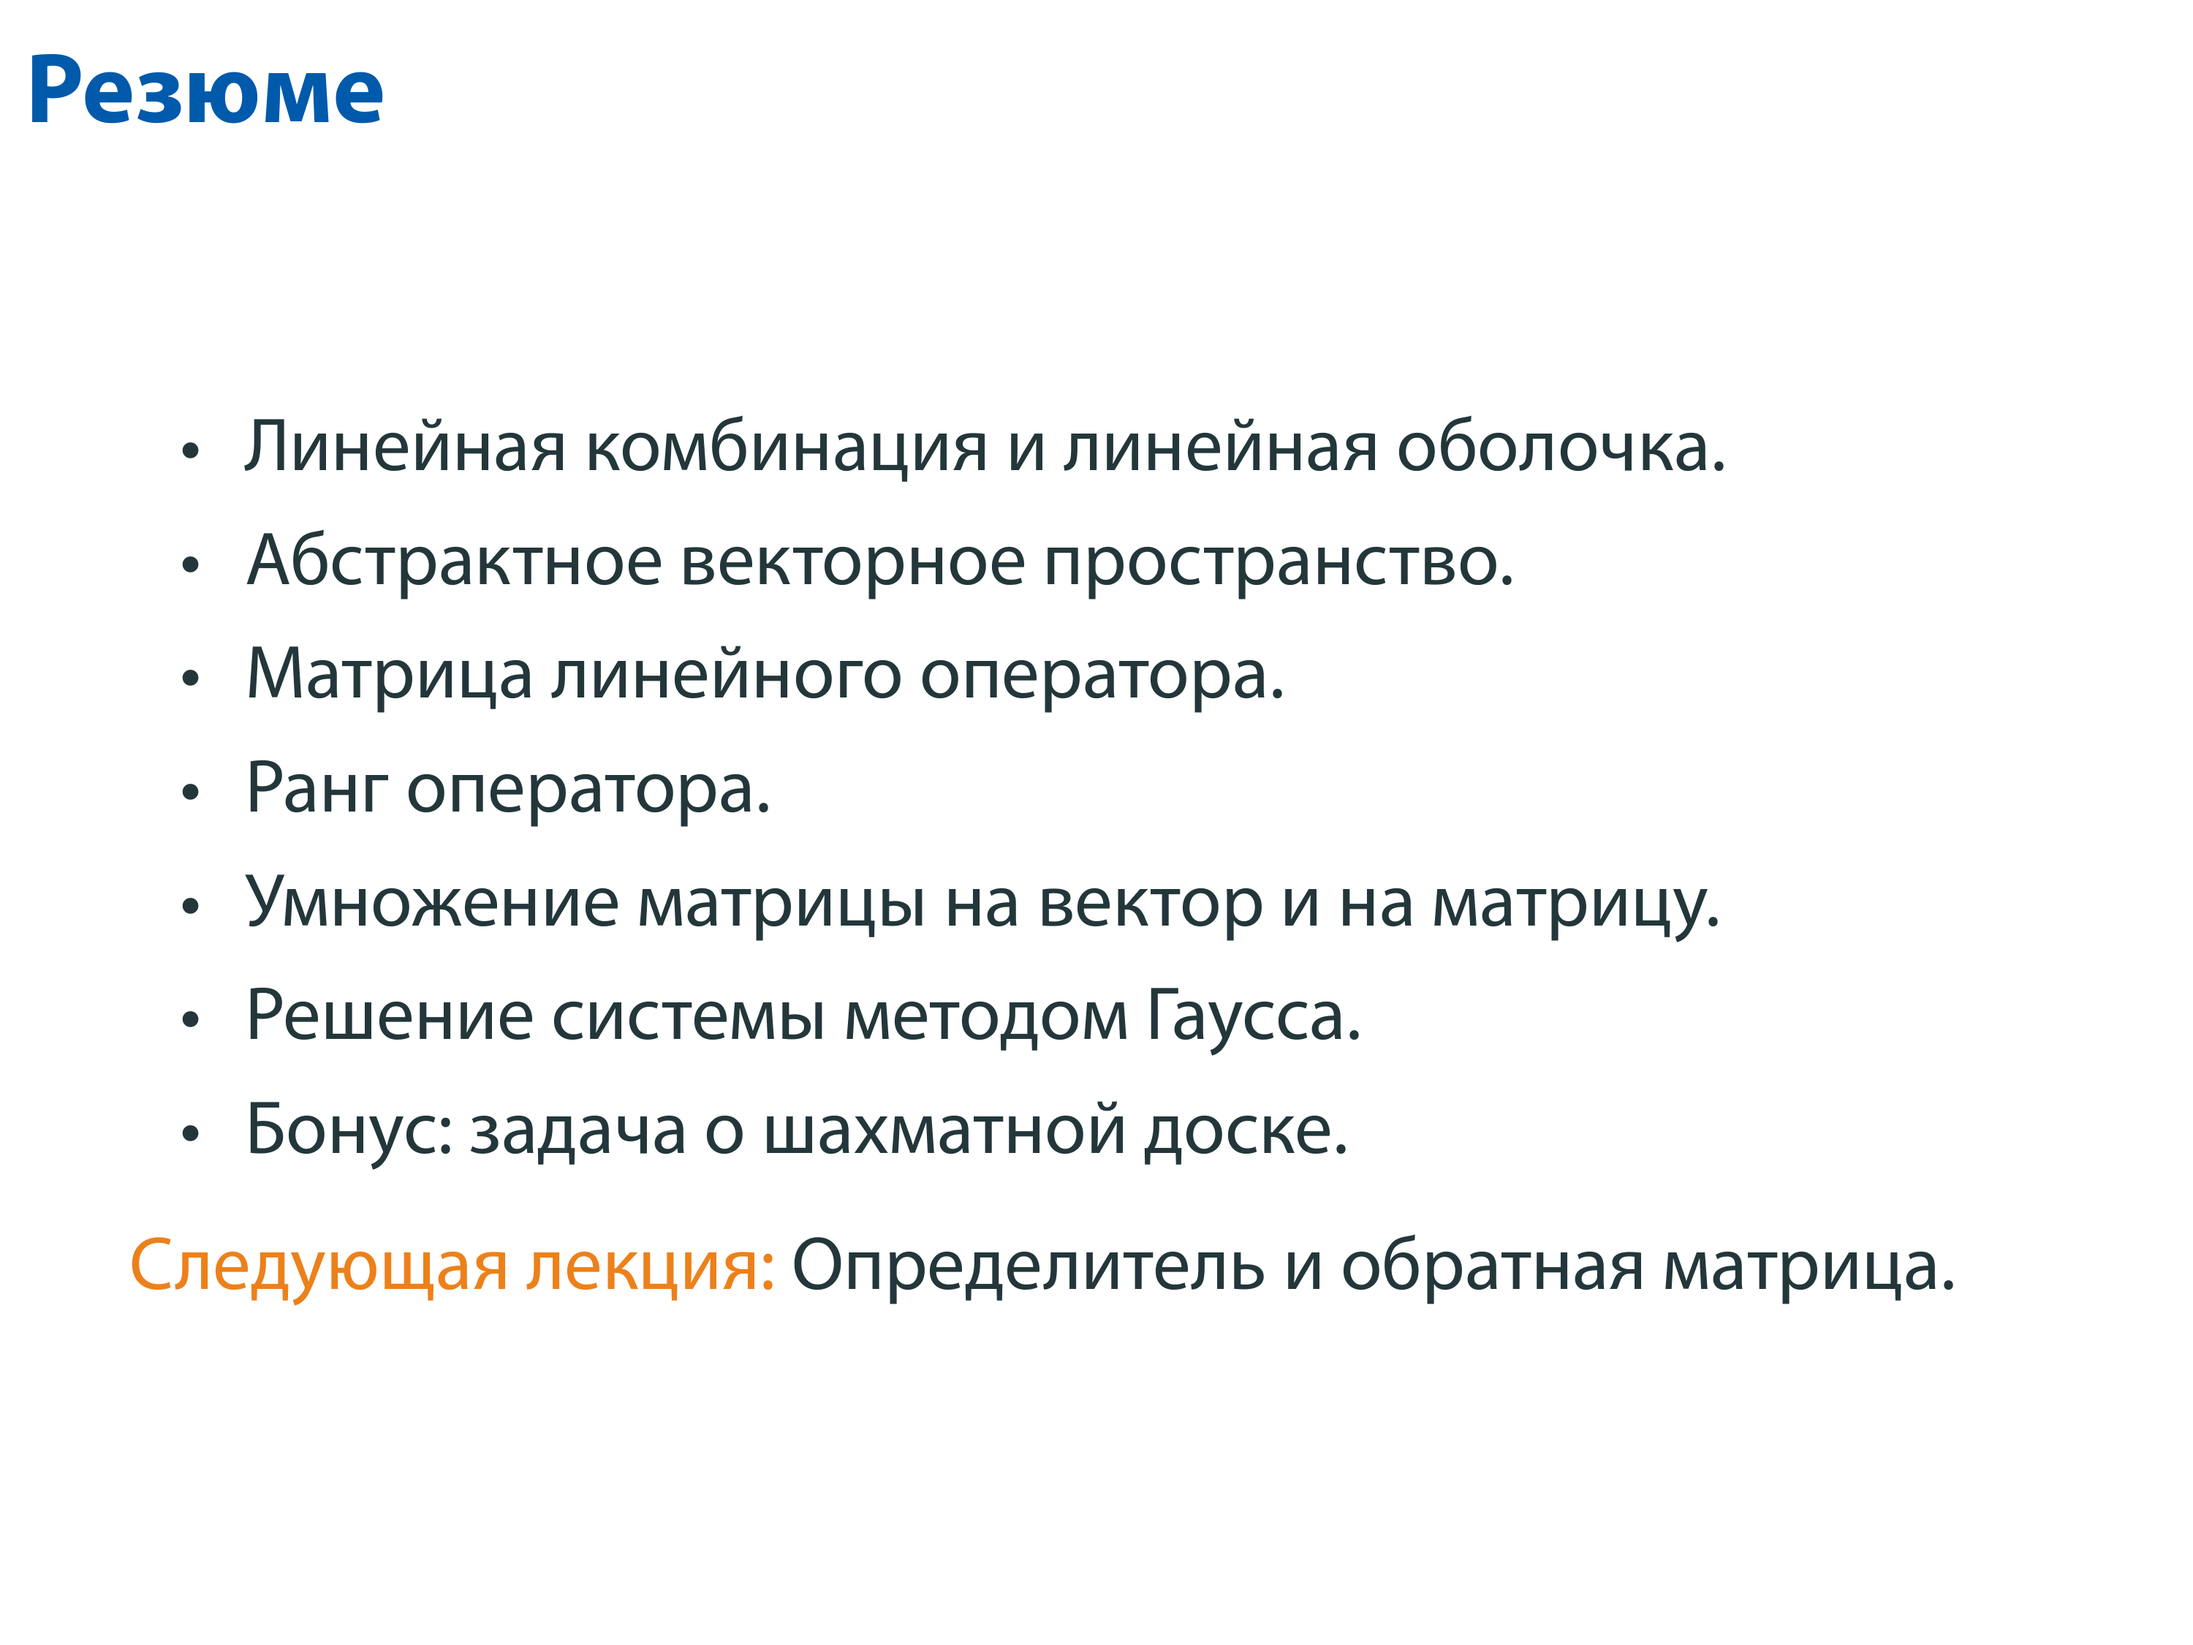
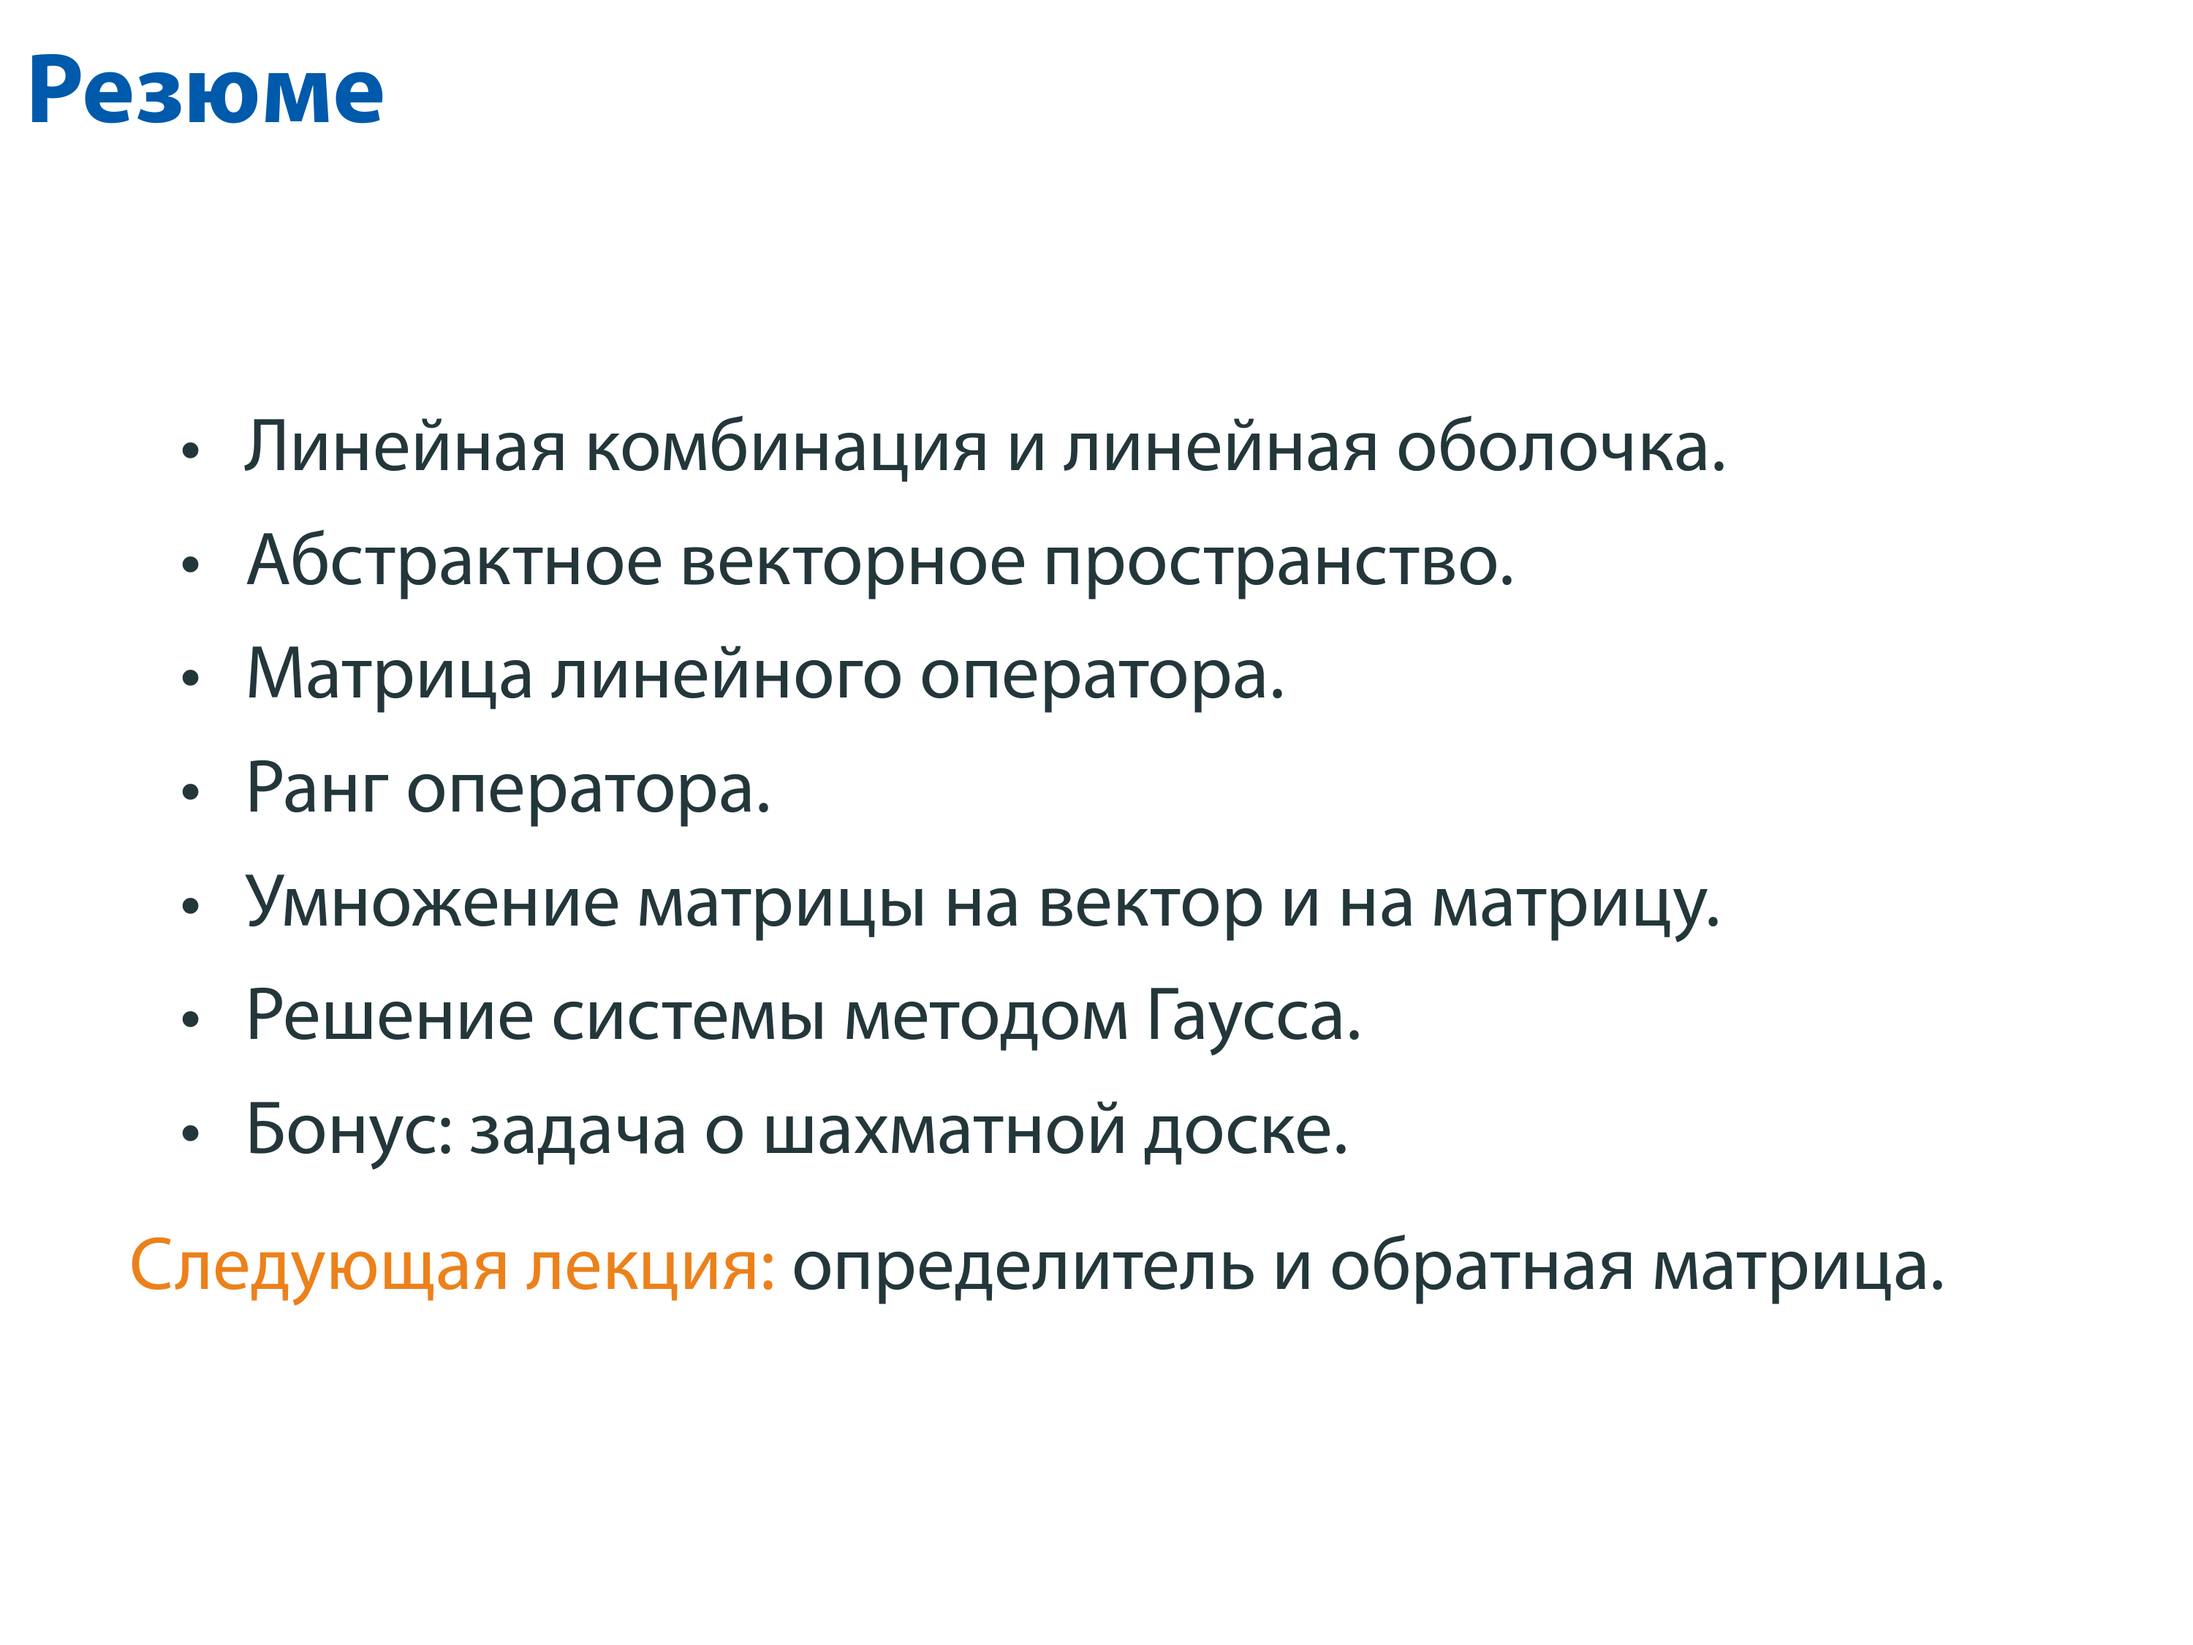
164

Changed region(s): [[0.372, 0.7467, 0.899, 0.8089]]

diff --git a/week_02/chapters/lec_020_fra_100_gauss_properties.tex b/week_02/chapters/lec_020_fra_100_gauss_properties.tex
@@ -224,7 +224,7 @@ $\alpha_1$, \ldots, $\alpha_k$ — произвольные числа.
 \item Бонус: задача о шахматной доске.
 \end{itemize}
 \pause
-\alert{Следующая лекция:} Определитель и обратная матрица.
+\alert{Следующая лекция:} определитель и обратная матрица.
 
 
 
